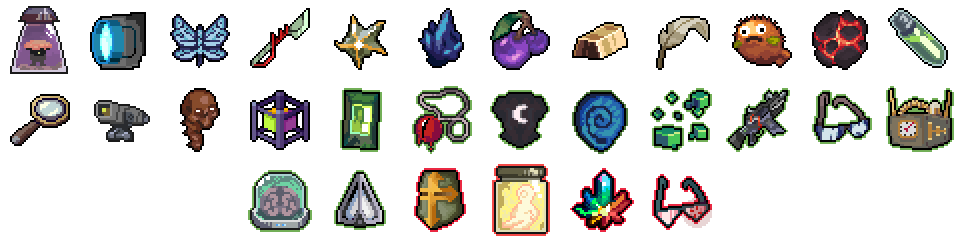
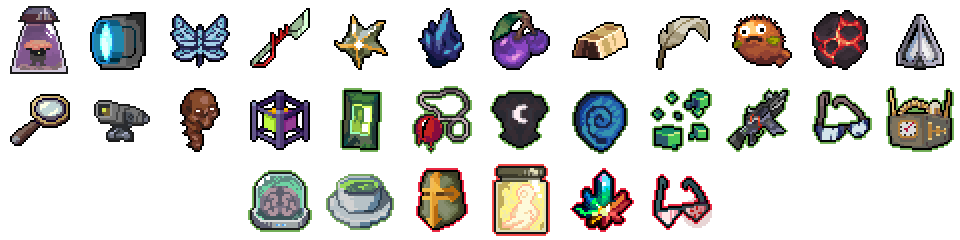
feat: update README, CHANGELOG and Wiki

Changed region(s): [[0.3125, 0.7, 0.5, 0.9625], [0.9062, 0.0292, 1.0, 0.2917]]

diff --git a/CHANGELOG.md b/CHANGELOG.md
@@ -1,19 +1,42 @@
-### v2.0.0
-# eng
-* Added 13 new white items.
-* Added 9 new green items.
-* Added 4 new red items.
-- ________________________________________
-* Changed 5 old white items.
-# rus
-* Добавлено 13 новых белых предметов.
-* Добавлено 9 новых зеленых предметов.
-* Добавлено 4 новых красных предметов.
-- ________________________________________
-* Переработано 5 старых белых предмета. 
+# Changelog
 
-### v1.1.0
-# eng
-* added 5 items.
-# rus
-* добавлено 5 предметов.
+All notable DeerItems changes.
+
+## [3.0.14]
+
+### Added
+
+- **66 available items:** 24 white, 21 green, 16 red, and 5 equipment items.
+- 9 new white items: Bloody Dividends, Bounty Tag, Cheat Death, Concentration, Elephant Gun, Faceted Jade, Heavy Lungs, and Tankbuster.
+- 11 new green items: Assembly Blueprint, Bounty Contract, Cashback Chip, Charlatan's Die, Contagion Barb, Golden Sneakers, Laughing Fungus, Loot Fever, Magic Missile, Reserve Capacitor, and Standing Requisition.
+- 12 new red items: Army Surplus, Cascade Failure, Dombra, Ingrown Idol, Leacked Capacitor, Mosquito Net, Orbital Lens, Ravenous Vine, Rift Beacon, Rust Mite, Twisted Opinion, and Violet Frenzy.
+- 5 equipment items: Annihilator, Hunger, One Army Man, Soul Jar, and Tactical Visor.
+- The Standing Requisition Chest interactable.
+- The Cernunnos actor.
+- Two artifacts: Artifact of Droneman and Artifact of Technician.
+- Mod configuration: toggle each item's loot availability individually or manage all items at once.
+
+### Changed
+
+- Moved "Green Tea" from the white to the green tier. And "Unfocus Prisma" from the green to the white tier
+- Reworked and rebalanced existing white, green, and red items, including their effects, descriptions, visual assets, and sounds.
+- Expanded Russian and English localization.
+- Improved content loading and added ReturnsAPI support for multiplayer.
+
+## [2.0.0]
+
+### Added
+
+- 13 white items.
+- 9 green items.
+- 4 red items.
+
+### Changed
+
+- Reworked 5 existing white items.
+
+## [1.1.0]
+
+### Added
+
+- 5 items.

diff --git a/README.md b/README.md
@@ -1,36 +1,41 @@
 ![DeerItems baner](https://github.com/GreenAlen22/rorr-DeerItems/blob/main/DeerItemsBaner.png?raw=true)  
+You can see the list of content [here](https://github.com/GreenAlen22/rorr-DeerItems/wiki/En). 
 
 ---
-### Ru
-Мод на предметы, который добавляет всевозможные уникальные (и не очень) предметы. Над этим модом всё ещё ведётся работа, и, конечно же, в нём будет появляться всё больше и больше предметов (возможно будет добавлен другой вид контента).
-### En
-An item mod that adds all sorts of unique (and not so unique) items. Work is still underway on this mod, and of course, more and more items will appear in it (perhaps another type of content will be added).
+An item mod that adds all sorts of unique (and not so unique) items.
 
 ![items List](https://github.com/GreenAlen22/rorr-DeerItems/blob/main/itemsList.png?raw=true)  
 
 ![Bosco](https://github.com/GreenAlen22/rorr-DeerItems/blob/main/Bosco.gif?raw=true)  
 
 ---
+## V3 update
+With the V3 update, new items and a couple of new artifacts have been added to the mod.
 
-## Misc
-### Ru
-Вы можете ознакомиться со списком контента [тута](https://github.com/GreenAlen22/rorr-DeerItems/wiki/Ru). 
-Онлайн режим провервен на совместимость. Но если будут какие либо ошибки сообщите в дискорд.
-### En
-You can see the list of content [here](https://github.com/GreenAlen22/rorr-DeerItems/wiki/En). 
-The online mode is checked for compatibility. But if there are any errors, please report them to discord.
+![new Items List](https://github.com/GreenAlen22/rorr-DeerItems/blob/main/newItemsList.png?raw=true)
+![artifacts](https://github.com/GreenAlen22/rorr-DeerItems/blob/main/artifacts.png?raw=true)
+
+Added mod options to enable or disable the existence of certain items in the run. Go to Game settings > Mods tab to configurate.
+
+---
+## Todo
+- Visual updating of sprites. 
+- Audio update. 
+- Balance adjustment.
+- New objects. 
+- New enemies. 
+- New artifacts. 
+- A few new items (mostly equipment).
+- Adding achievement system and providens trail.
 
 ---
 ## Credits
 * GreenAlen22 - Programming, Ideas, Art, Log entries
 * i7et5 - Ideas, Art, Log entries
-* gergeroth (Верге) - Ideas, Art
 
 ## Contacts
 My discord: greenalen22
+The online mode is checked for compatibility. But if there are any errors, please report them to discord.
 
 ## Special thanks
-### Ru
-Cпасибо "Klehrik", "RoRRModdingToolkit", "RandomCatDude" и остальным разработчикам модов на ror returns, которые помогли понять, как работает моддинг. 
-### En
 Thanks to Klehrik, RoRRModdingToolkit, RandomCatDude and the rest of the ror returns mod developers who helped us understand how modding works.